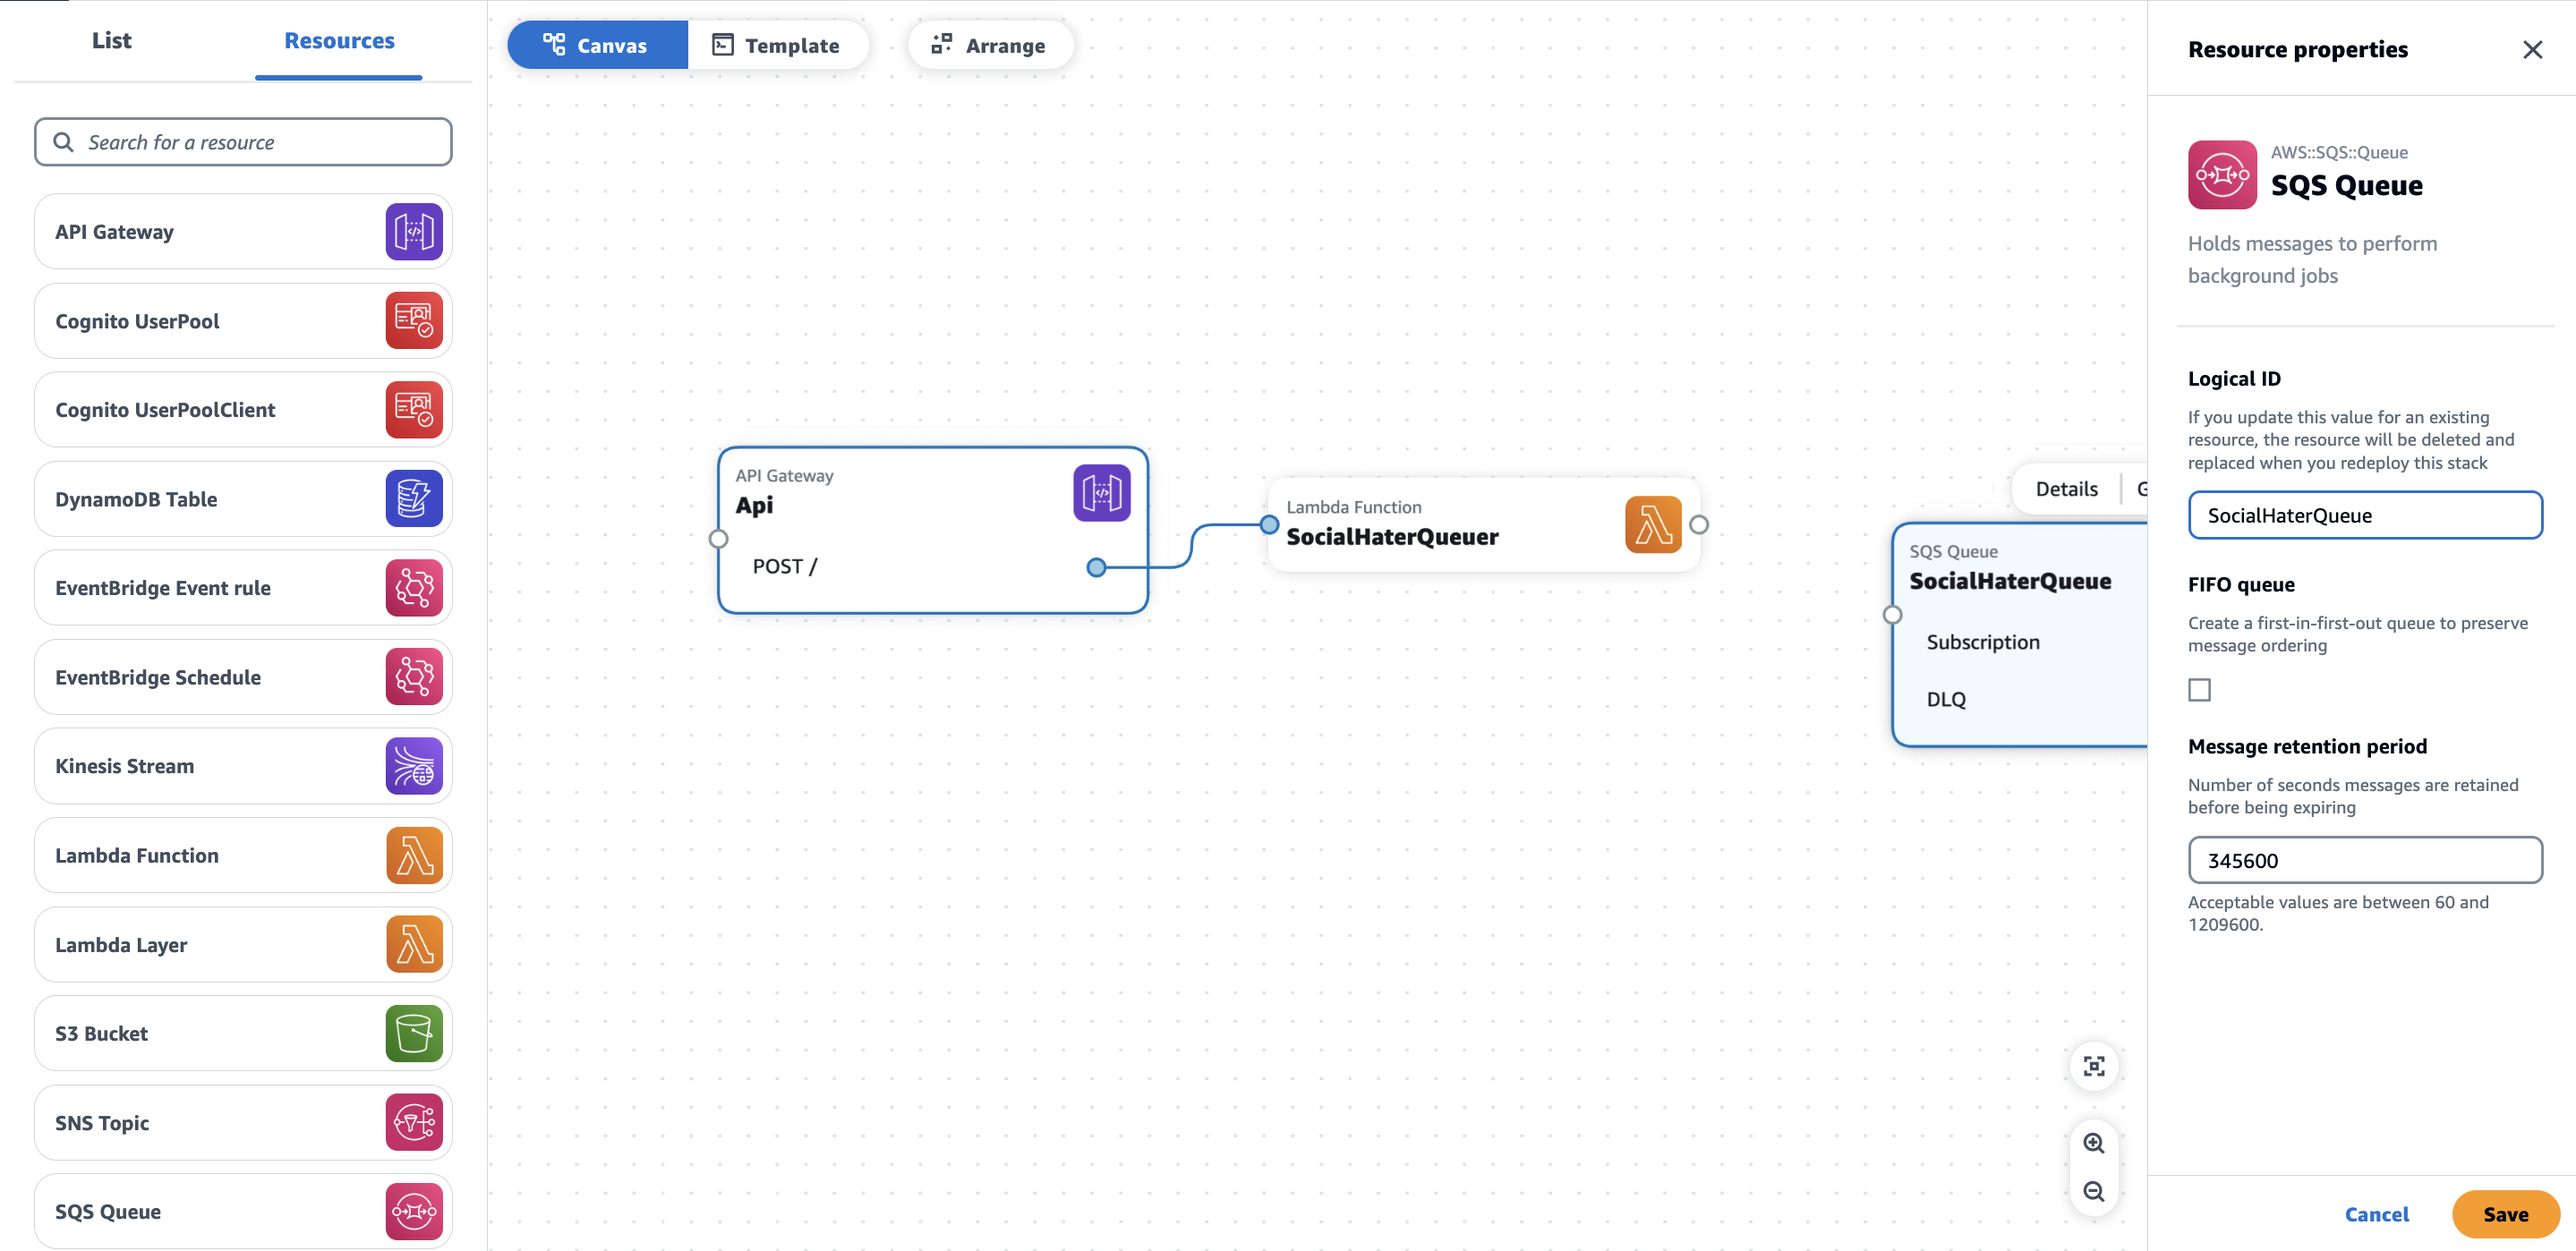
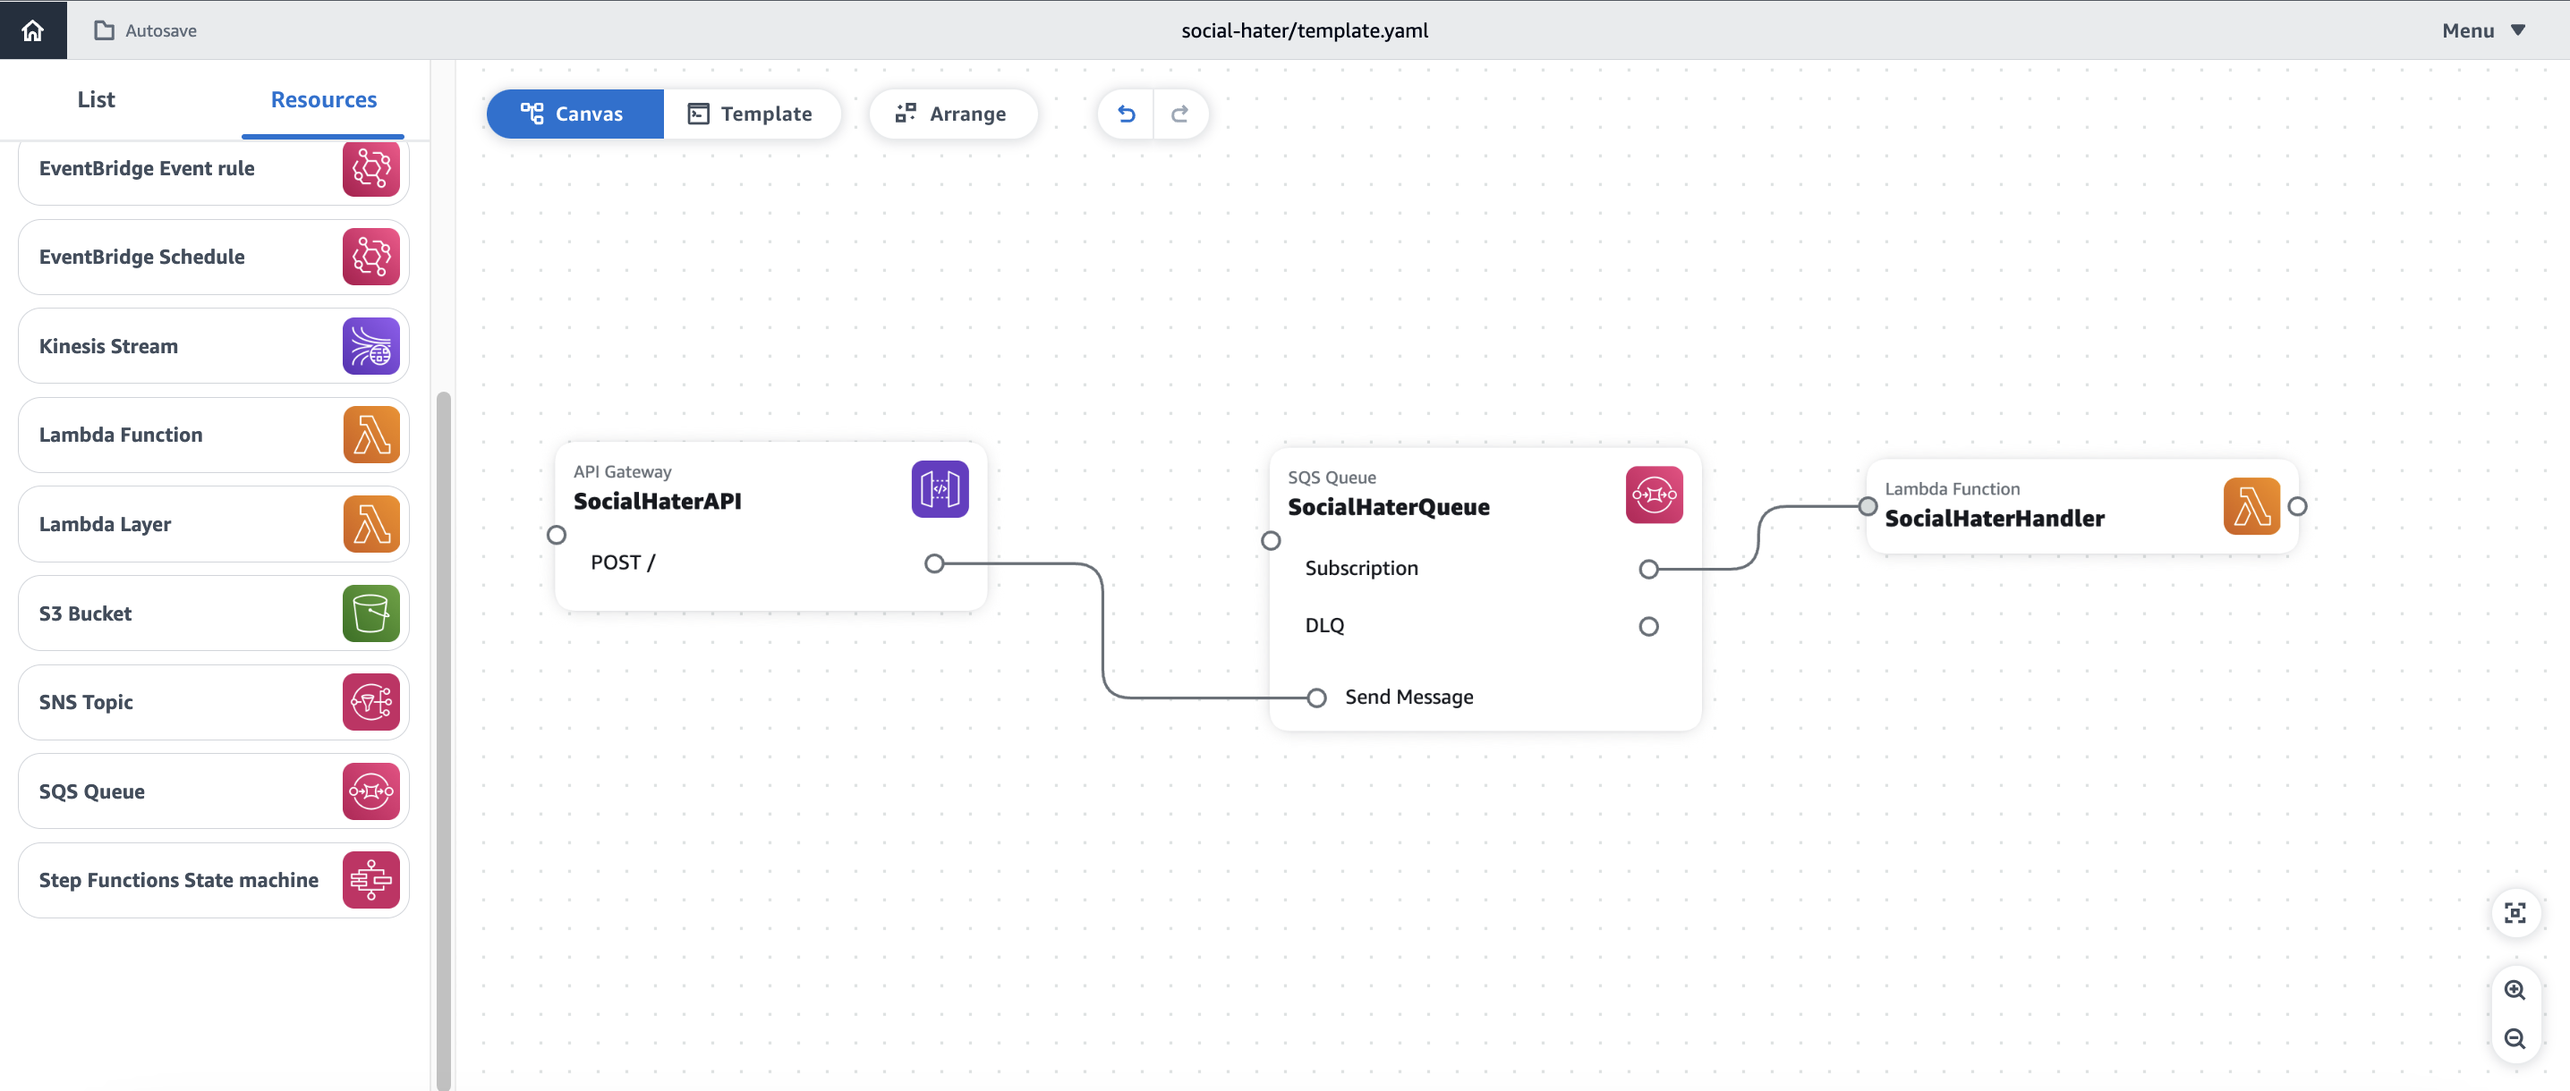
Update content

diff --git a/README.md b/README.md
@@ -46,56 +46,48 @@ In this demo we will start building an API. In order to do so, we will be levera
 1. Create a directory in which you wish to create your project on your local computer
 2. Head to the [Application Composer console](https://console.aws.amazon.com/composer/home)
 3. Click on **create project**
-4. Select **New Blank Project**
-5. Select **Connected**
-6. Select the your local directory
-7. Click **Create**
-8. Drag and drop an API Gateway resource into the canvas
-9. Click on the resource, then details and call it **SocialHaterAPI**
-10. Change the method from GET to POST
-11. Click save 
+4. Click on **Menu** and **Activate local sync**
+5. Select the local directory you have created in point 1
+6. Drag and drop an API Gateway resource into the canvas
+7. Click on the resource, then details and call it **SocialHaterAPI**
+8.  Change the method from GET to POST
+9.  Click save 
     ![plot](./images/infra/1.png)
-12. Drag and drop a Lambda resource into the canvas
-13. Change the logical ID to **SocialHaterQueuer**
-14. Change the source path to **src/Queuer**
-15. Click save
-    ![plot](./images/infra/2.png)
-16. Link the POST method of **SocialHaterAPI** with **SocialHaterQueuer**
-17. Drag and drop an SQS Queue resource in the canvas
-18. Change the logical ID to **SocialHaterQueue**
-19. Click save
-  ![plot](./images/infra/3.png)
-20. Link **SocialHaterQueuer** with **SocialHaterQueue**
-21. Drag and drop a Lambda resource into the canvas
-22. Change the logical ID to **SocialHaterHandler**
-23. Change the source path to **src/Handler**
-24. Click save
-  ![plot](./images/infra/4.png)
-25. Link Subscription of the **SocialHaterQueue** with **SocialHaterHandler**
-  [plot](./images/infra/5.png)
-26. Click on the **SocialHaterHandler** resource details and scroll down to **Permissions**
-27. Paste the following code
-    ```yaml
-    - Statement:
-        - Effect: Deny
-          Action:
-            - sns:Publish
-          Resource: arn:aws:sns:*:*:*
-        - Effect: Allow
-          Action:
-            - sns:Publish
-          Resource: '*'
-    - Statement:
-        - Effect: Allow
-          Action:
-            - comprehend:DetectSentiment
-          Resource: '*'
-    ```
-    These policies will:
-      1. Allow the lambda function to send SMS through the Amazon SNS service (but not to acces any topic)
-      2. Allow the lambda to perform the DetectSentiment command on Amazon Comprehend
-28. Click save
-    ![plot](./images/infra/6.png)
+10. Drag and drop an SQS Queue resource in the canvas
+11. Change the logical ID to **SocialHaterQueue**
+12. Click save
+13. Link **SocialHaterQueuer** with **SocialHaterQueue**
+![plot](./images/infra/2.png)
+14. Drag and drop a Lambda resource into the canvas
+15. Change the logical ID to **SocialHaterHandler**
+16. Click save
+17. Link Subscription of the **SocialHaterQueue** with **SocialHaterHandler**
+  [plot](./images/infra/3.png)
+18. Click on the **SocialHaterHandler** resource details and scroll down to **Permissions**
+19. Paste the following code
+  ```yaml
+  - Statement:
+      - Effect: Deny
+        Action:
+          - sns:Publish
+        Resource: arn:aws:sns:*:*:*
+      - Effect: Allow
+        Action:
+          - sns:Publish
+        Resource: '*'
+  - Statement:
+      - Effect: Allow
+        Action:
+          - comprehend:DetectSentiment
+        Resource: '*'
+  ```
+
+
+  > These policies will:
+  >  1. Allow the lambda function to send SMS through the Amazon SNS service (but not to acces any topic)
+  >  2. Allow the lambda to perform the DetectSentiment command on Amazon Comprehend
+20.  Click save
+    ![plot](./images/infra/4.png)
 
 
 ### Define lambda execution logic
@@ -112,47 +104,33 @@ Now we want to code the execution logic of our lambda functions in our local com
         Value: !Sub "https://${SocialHaterAPI}.execute-api.${AWS::Region}.amazonaws.com/Prod/"
     ```
     This change will make sure that everytime you deploy your application with SAM, the API Gateway endpoint will be displayed.
-4. Remove the files and folders in the `src` directory
-5. Create two directories in the `src` directory:
-   - `src/Queuer`
-   - `src/Handler`
-6. In each of those directories create an `index.mjs` file
-7. Let's head to the `src/Queuer/index.mjs` file and paste the following code:
-    ```js
-    import { SQSClient, SendMessageCommand } from "@aws-sdk/client-sqs"
-
-    export const handler = async (event) => {
-      const sqsInput = { QueueUrl: process.env.QUEUE_URL, MessageBody: event.body }
-      const sqsClient = new SQSClient()
-      const sqsCommand = new SendMessageCommand(sqsInput)
-      await sqsClient.send(sqsCommand)
-      return {}
-    }
-    ```
-    This codes adds a message in the SQS queue. The message is the body of the API call made on the API gateway endpoint.
-8. Let's head to the `src/Handler/index.mjs` file and paste the following code:
+4. Ιn the `src/Function` directory, change the extension of the the `index.js` file to `index.mjs`
+5. Let's head to the `src/Function/index.mjs` file and paste the following code:
     ```js
     import { SNSClient, PublishCommand } from "@aws-sdk/client-sns"
     import { ComprehendClient, DetectSentimentCommand } from "@aws-sdk/client-comprehend"
 
     export const handler = async (event) => {
-      const message = JSON.parse(event.Records[0].body)
-      
+      await Promise.all(event.Records.map(record => {
+        const message = JSON.parse(record.body).data
+        return handleMessage(message)
+      }))
+    }
+
+    const handleMessage = async (message) => {
       const comprehendInput = { Text: message.content, LanguageCode: "en" }
       const comprehendClient = new ComprehendClient()
       const comprehendCommand = new DetectSentimentCommand(comprehendInput)
       const comprehendResponse = await comprehendClient.send(comprehendCommand)
-
+      
       console.log(`Sentiment is ${comprehendResponse.Sentiment}`)
       if (comprehendResponse.Sentiment === "NEGATIVE") {
-        const snsInput = { Message: `ALERT: Hater message received from ${message.sender || "UNKNOWN HATER"} (ID: ${message.id})`, PhoneNumber: "YOUR PHONE NUMBER" }
+        const snsInput = { Message: `ALERT: Hater message received from ${message.sender || "UNKNOWN HATER"} (ID: ${message.id})`, PhoneNumber: "YOUR_PHONE_NUMBER" }
         const snsClient = new SNSClient()
         const snsCommand = new PublishCommand(snsInput)
         await snsClient.send(snsCommand)
         console.log("SMS Sent")
       }
-
-      return {}
     }
     ```
     This code extracts the message from SQS. It then makes a call to Amazon Comprehend to assess if the message is negative. If it is negative it sends a message to the phone number hard coded in this code snippet.
@@ -166,10 +144,9 @@ Now we want to code the execution logic of our lambda functions in our local com
   2. Run `sam deploy --guided`
    This command will ask for some information regarding your deployment, you can fill the values in as follows:
    ![plot](./images/deploy/1.png)
-   > Note: It will warn you that **SocialHaterQueuer** has no Authorization defined. Explicetely allow it for the sake of this demo.
   3. At the end of your deployment results, you should be able to find the outputs that should look like this:
   ![plot](./images/deploy/2.png)
-  Copy the API endpoint and test your api with the following command
+  4. Copy the API endpoint and test your api with the following command
   ```sh
     curl --location 'API_ENDPOINT' \
     --header 'Content-Type: application/json' \
@@ -179,7 +156,7 @@ Now we want to code the execution logic of our lambda functions in our local com
         "id": "Angry ID"
     }'
   ```
-  Copy the API endpoint and test your api with the following command
+  5. Copy the API endpoint and test your api with the following command
   ```sh
     curl --location 'API_ENDPOINT' \
     --header 'Content-Type: application/json' \
